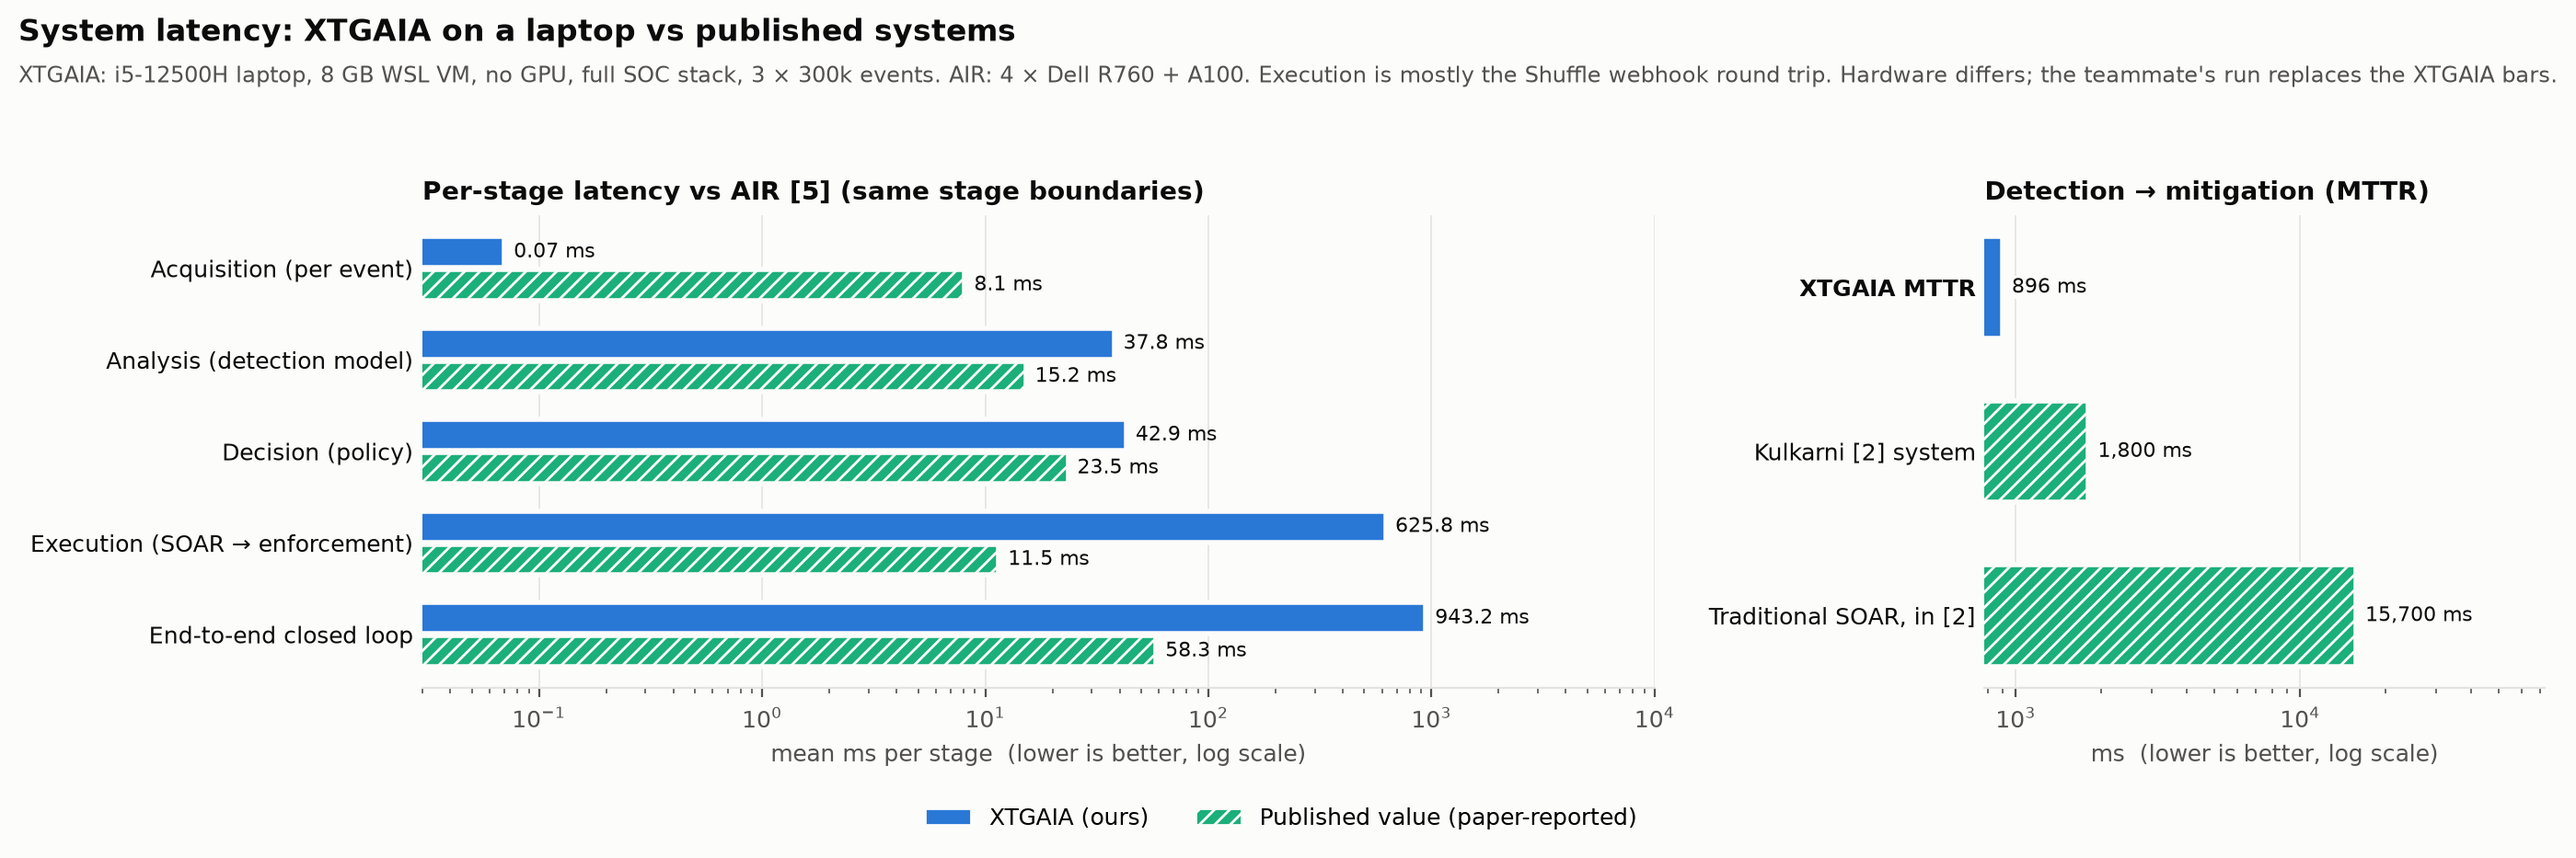
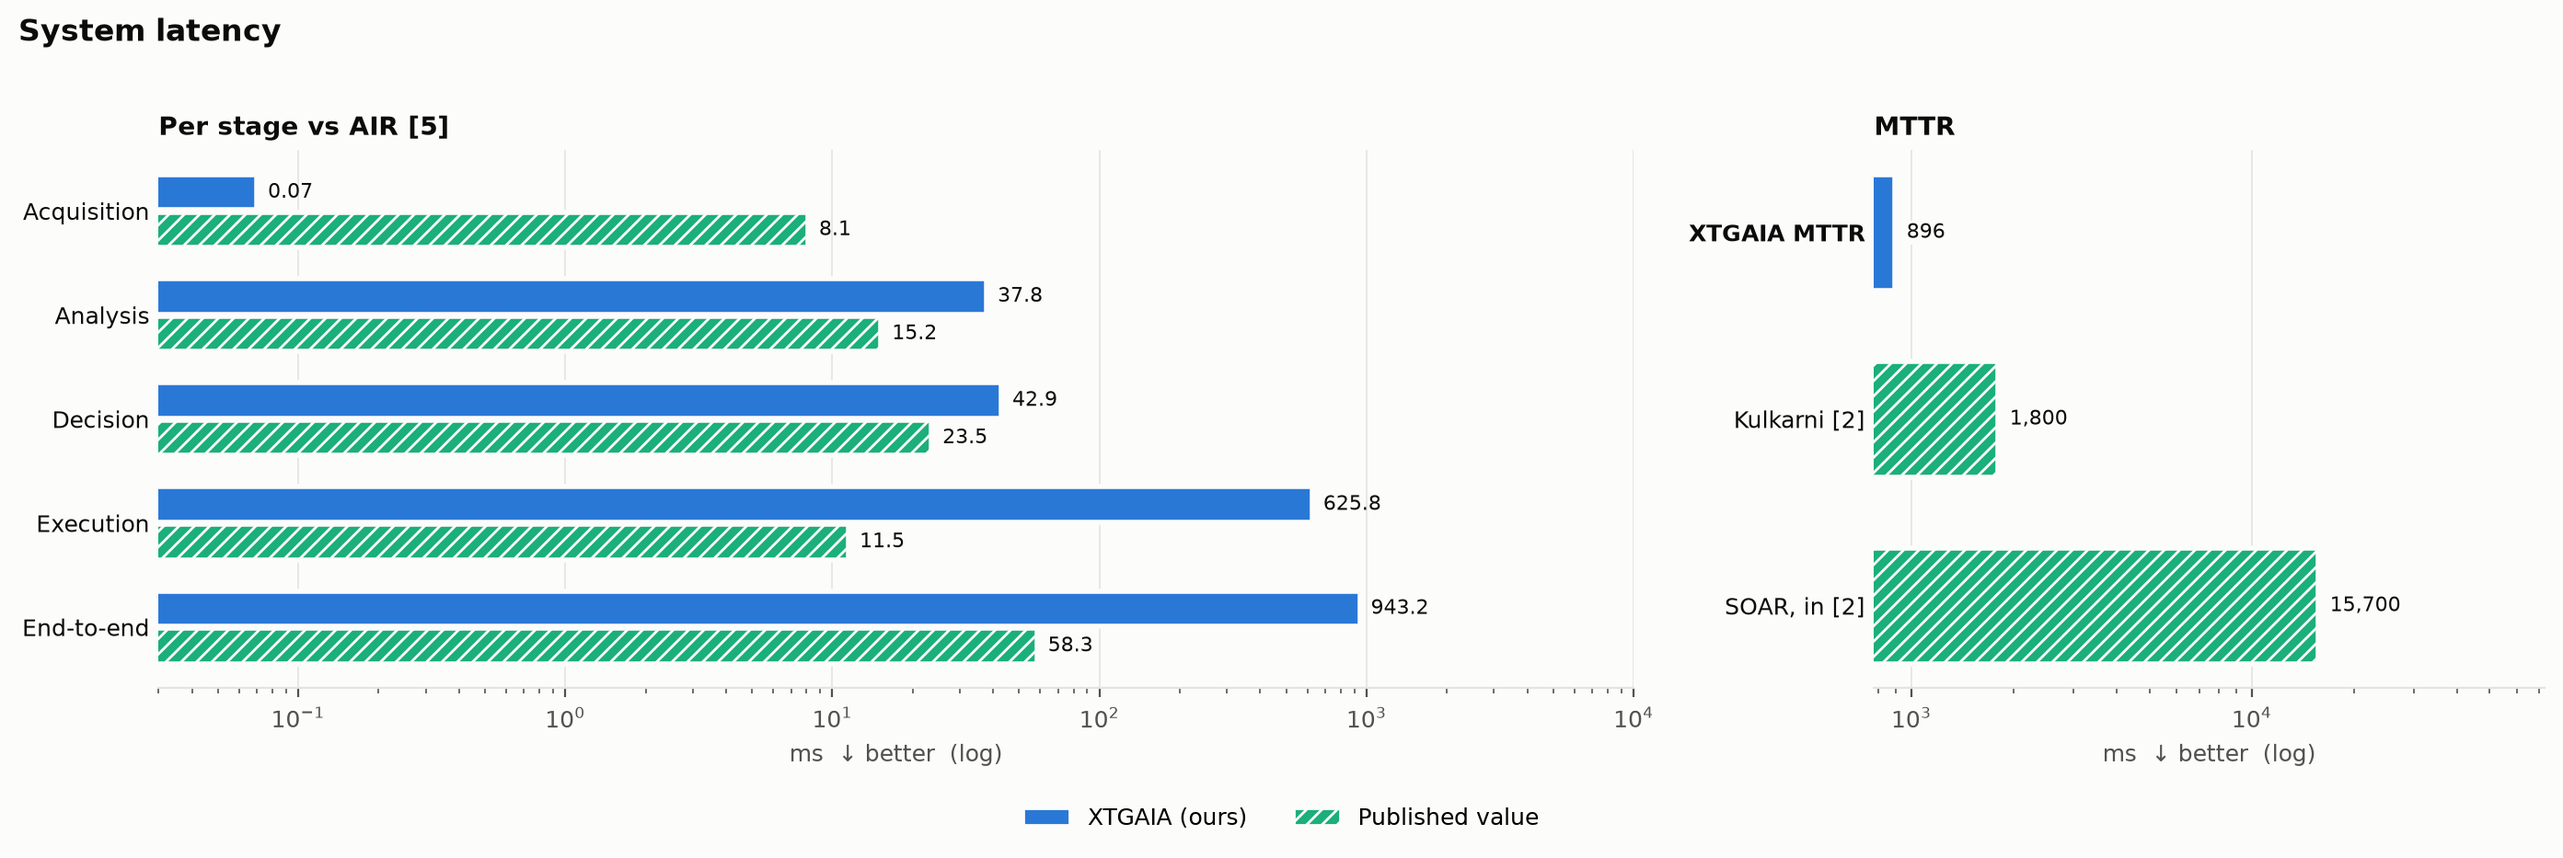
Comparison figures with less on-plot text; captions moved to docs/figures/README.md

diff --git a/scripts/make_comparison_figures.py b/scripts/make_comparison_figures.py
@@ -21,8 +21,8 @@ from matplotlib.patches import Patch  # noqa: E402
 OUT = os.path.join(os.path.dirname(os.path.dirname(os.path.abspath(__file__))), "docs", "figures")
 SURFACE, INK, INK2, GRID = "#fcfcfb", "#0b0b0b", "#52514e", "#e4e3df"
 GROUP = {"ours": ("#2a78d6", None, "XTGAIA (ours)"),
-         "inhouse": ("#eb6834", None, "Baseline, run in-house"),
-         "published": ("#1baf7a", "////", "Published value (paper-reported)")}
+         "inhouse": ("#eb6834", None, "Baseline (run in-house)"),
+         "published": ("#1baf7a", "////", "Published value")}
 
 plt.rcParams.update({"font.family": "DejaVu Sans", "font.size": 9, "axes.edgecolor": GRID, "axes.labelcolor": INK2,
                      "xtick.color": INK2, "ytick.color": INK, "axes.titlesize": 10, "axes.titleweight": "bold",
@@ -60,7 +60,8 @@ def hbar(ax, rows, title, xlabel, fmt="{:.3f}", log=False, xlim=None, better="hi
     else:
         ax.set_xlim(lo, hi * 4)
     ax.set_title(title, loc="left")
-    ax.set_xlabel(f"{xlabel}  ({'higher' if better == 'higher' else 'lower'} is better{', log scale' if log else ''})")
+    arrow = "↑ better" if better == "higher" else "↓ better"
+    ax.set_xlabel(f"{xlabel + '  ' if xlabel else ''}{arrow}{'  (log)' if log else ''}")
     ax.grid(axis="x", color=GRID, linewidth=0.6)
     ax.set_axisbelow(True)
     for s in ("top", "right", "left"):
@@ -103,12 +104,10 @@ def detection_unsw():
     hbar(axes[0], f1_1, "F1 at FPR 1 %", "F1", xlim=(0.7, 1.0))
     hbar(axes[1], f1_01, "F1 at FPR 0.1 %", "F1", xlim=(0.0, 1.0))
     hbar(axes[2], auc, "ROC-AUC", "ROC-AUC", fmt="{:.4f}", xlim=(0.85, 1.0))
-    fig.suptitle("Threat detection: NF-UNSW-NB15-v2, chronological 70/10/20 (CCSTGN [11] protocol)",
+    fig.suptitle("Detection: NF-UNSW-NB15-v2 (CCSTGN protocol)",
                  x=0.01, ha="left", fontsize=12, fontweight="bold", color=INK)
-    fig.text(0.01, 0.925, "Thresholds chosen on validation, as in [11]. XTGAIA: tuned final, 1 seed; [11]: mean of 5 runs. "
-             "† quoted in [11] from the 3D-IDS paper.", fontsize=8.5, color=INK2)
     legend(fig, y=-0.04)
-    fig.tight_layout(rect=(0, 0.02, 1, 0.91))
+    fig.tight_layout(rect=(0, 0.02, 1, 0.97))
     save(fig, "fig1a_detection_unsw.png")
 
 
@@ -123,87 +122,79 @@ def detection_cicids():
     fig, axes = plt.subplots(1, 3, figsize=(15, 3.6))
     hbar(axes[0], f1, "F1", "F1", xlim=(0.85, 1.0))
     hbar(axes[1], auc, "ROC-AUC", "ROC-AUC", fmt="{:.4f}", xlim=(0.98, 1.0))
-    hbar(axes[2], fpr, "False-positive rate", "FPR", fmt="{:.4f}", better="lower")
-    fig.suptitle("Threat detection: CICIDS2017 (corrected), held-out Friday (unseen day)",
+    hbar(axes[2], fpr, "FPR", "FPR", fmt="{:.4f}", better="lower")
+    fig.suptitle("Detection: CICIDS2017, held-out Friday",
                  x=0.01, ha="left", fontsize=12, fontweight="bold", color=INK)
-    fig.text(0.01, 0.885, "No paper publishes this protocol, so every comparator is run in-house on the same split. "
-             "Default thresholds (validation ω for the TGN).", fontsize=8.5, color=INK2)
     legend(fig, groups=("ours", "inhouse"), y=-0.08)
-    fig.tight_layout(rect=(0, 0.02, 1, 0.87))
+    fig.tight_layout(rect=(0, 0.02, 1, 0.96))
     save(fig, "fig1b_detection_cicids_heldout.png")
 
 
 # ------------------------------------------------------------------------------------------------ 2. latency
 def latency():
     # docs/handoff_latency_and_demo.md (laptop baseline, full SOC stack) vs AIR [5] / Kulkarni [2] reported
-    stages = [("Acquisition (per event)", 0.07, 8.1), ("Analysis (detection model)", 37.8, 15.2),
-              ("Decision (policy)", 42.9, 23.5), ("Execution (SOAR → enforcement)", 625.8, 11.5),
-              ("End-to-end closed loop", 943.2, 58.3)]
+    stages = [("Acquisition", 0.07, 8.1), ("Analysis", 37.8, 15.2),
+              ("Decision", 42.9, 23.5), ("Execution", 625.8, 11.5),
+              ("End-to-end", 943.2, 58.3)]
     fig, axes = plt.subplots(1, 2, figsize=(14, 4.4), gridspec_kw={"width_ratios": [2.2, 1]})
     ax = axes[0]
     n = len(stages)
     for i, (name, ours, air) in enumerate(stages[::-1]):
         ax.barh(i + 0.18, ours, height=0.34, color=GROUP["ours"][0], edgecolor=SURFACE, linewidth=2)
         ax.barh(i - 0.18, air, height=0.34, color=GROUP["published"][0], hatch="////", edgecolor=SURFACE, linewidth=2)
-        ax.text(ours * 1.1, i + 0.18, f"{ours:g} ms", va="center", fontsize=8, color=INK)
-        ax.text(air * 1.1, i - 0.18, f"{air:g} ms", va="center", fontsize=8, color=INK)
+        ax.text(ours * 1.1, i + 0.18, f"{ours:g}", va="center", fontsize=8, color=INK)
+        ax.text(air * 1.1, i - 0.18, f"{air:g}", va="center", fontsize=8, color=INK)
     ax.set_yticks(range(n), [s[0] for s in stages[::-1]])
     ax.set_xscale("log")
     ax.set_xlim(0.03, 10000)
-    ax.set_title("Per-stage latency vs AIR [5] (same stage boundaries)", loc="left")
-    ax.set_xlabel("mean ms per stage  (lower is better, log scale)")
+    ax.set_title("Per stage vs AIR [5]", loc="left")
+    ax.set_xlabel("ms  ↓ better  (log)")
     ax.grid(axis="x", color=GRID, linewidth=0.6)
     ax.set_axisbelow(True)
     for s in ("top", "right", "left"):
         ax.spines[s].set_visible(False)
     ax.tick_params(axis="y", length=0)
-    hbar(axes[1], [("XTGAIA MTTR", 896.5, "ours"), ("Kulkarni [2] system", 1800.0, "published"),
-                   ("Traditional SOAR, in [2]", 15700.0, "published")],
-         "Detection → mitigation (MTTR)", "ms", fmt="{:,.0f} ms", log=True, better="lower")
-    fig.suptitle("System latency: XTGAIA on a laptop vs published systems",
+    hbar(axes[1], [("XTGAIA MTTR", 896.5, "ours"), ("Kulkarni [2]", 1800.0, "published"),
+                   ("SOAR, in [2]", 15700.0, "published")],
+         "MTTR", "ms", fmt="{:,.0f}", log=True, better="lower")
+    fig.suptitle("System latency",
                  x=0.01, ha="left", fontsize=12, fontweight="bold", color=INK)
-    fig.text(0.01, 0.9, "XTGAIA: i5-12500H laptop, 8 GB WSL VM, no GPU, full SOC stack, 3 × 300k events. AIR: 4 × Dell R760 "
-             "+ A100. Execution is mostly the Shuffle webhook round trip. Hardware differs; the teammate's run replaces "
-             "the XTGAIA bars.", fontsize=8.5, color=INK2)
     legend(fig, groups=("ours", "published"), y=-0.05)
-    fig.tight_layout(rect=(0, 0.02, 1, 0.88))
+    fig.tight_layout(rect=(0, 0.02, 1, 0.96))
     save(fig, "fig2_latency.png")
 
 
 # ------------------------------------------------------------------------------------------------ 3. XAI
 def xai():
     # runs/final_metrics_deployed (XTGAIA, 1,200 detections) and data/processed/eval/explainer_baselines_1000.json
-    lat = [("XTGAIA Tier 1+2 (TGN)", 25.2, "ours"), ("TreeSHAP (XGBoost)", 1.3, "inhouse"),
+    lat = [("XTGAIA", 25.2, "ours"), ("TreeSHAP (XGBoost)", 1.3, "inhouse"),
            ("TreeSHAP (RF)", 2.4, "inhouse"), ("LIME (XGBoost)", 99.9, "inhouse"), ("LIME (RF)", 144.6, "inhouse"),
            ("LIME (1D-CNN)", 167.4, "inhouse"), ("KernelSHAP (1D-CNN)", 953.9, "inhouse")]
-    fid = [("XTGAIA Tier 1 (fidelity+)", 0.002, "ours"), ("TreeSHAP (XGBoost)", 0.790, "inhouse"),
+    fid = [("XTGAIA", 0.002, "ours"), ("TreeSHAP (XGBoost)", 0.790, "inhouse"),
            ("TreeSHAP (RF)", 0.266, "inhouse"), ("LIME (XGBoost)", 0.363, "inhouse"), ("LIME (RF)", 0.293, "inhouse"),
            ("LIME (1D-CNN)", 0.105, "inhouse"), ("KernelSHAP (1D-CNN)", 0.461, "inhouse")]
-    stab = [("XTGAIA (edge identity)", 0.984, "ours"), ("TreeSHAP (XGBoost)", 0.980, "inhouse"),
+    stab = [("XTGAIA", 0.984, "ours"), ("TreeSHAP (XGBoost)", 0.980, "inhouse"),
             ("TreeSHAP (RF)", 0.983, "inhouse"), ("LIME (XGBoost)", 0.703, "inhouse"), ("LIME (RF)", 0.804, "inhouse"),
             ("LIME (1D-CNN)", 0.848, "inhouse"), ("KernelSHAP (1D-CNN)", 0.731, "inhouse")]
     fig, axes = plt.subplots(1, 3, figsize=(15, 4.2))
-    hbar(axes[0], lat, "Explanation latency (mean)", "ms per explanation", fmt="{:g} ms", log=True, better="lower")
+    hbar(axes[0], lat, "Latency", "ms", fmt="{:g}", log=True, better="lower")
     axes[0].axvspan(200, axes[0].get_xlim()[1], color="#ecebe7", zorder=0, linewidth=0)
-    axes[0].text(200 * 1.08, 6.55, "beyond the 200 ms bound", fontsize=7.5, color=INK2)
-    hbar(axes[1], fid, "Fidelity (drop when top-k removed)", "Δp(attack)", xlim=(0, 1.0))
-    hbar(axes[2], stab, "Stability across similar instances", "similarity", xlim=(0.5, 1.0))
-    fig.suptitle("Explainability: XTGAIA's explainers vs post-hoc explainers",
+    axes[0].text(200 * 1.08, 6.55, "> 200 ms", fontsize=7.5, color=INK2)
+    hbar(axes[1], fid, "Fidelity", "Δp", xlim=(0, 1.0))
+    hbar(axes[2], stab, "Stability", "", xlim=(0.5, 1.0))
+    fig.suptitle("Explainability",
                  x=0.01, ha="left", fontsize=12, fontweight="bold", color=INK)
-    fig.text(0.01, 0.885, "No comparator paper publishes explanation latency, fidelity or stability, so all are measured "
-             "here (1,000 instances each; XTGAIA on 1,200 detections). Fidelity: subgraph fidelity+ (XTGAIA) vs top-5 "
-             "feature deletion. Stability: top-5 edge-set Jaccard (XTGAIA) vs [6]'s cosine.", fontsize=8.5, color=INK2)
     legend(fig, groups=("ours", "inhouse"), y=-0.06)
-    fig.tight_layout(rect=(0, 0.02, 1, 0.87))
+    fig.tight_layout(rect=(0, 0.02, 1, 0.96))
     save(fig, "fig3_xai.png")
 
 
 # ------------------------------------------------------------------------------------------------ 4. response
 def response():
     # docs/evaluation_results.md, CALDERA-driven zone environment (src/evaluation/response_eval.py)
-    pol = ["XTGAIA zone DDQN", "Static SOAR playbook", "Graded SOAR rules", "No response"]
+    pol = ["XTGAIA", "Static playbook", "Graded rules", "No response"]
     grp = ["ours", "inhouse", "inhouse", "inhouse"]
-    metrics = [("Mean return (Eq. 10)", [12.99, 7.94, 9.81, -30.86], "higher", "{:.2f}"),
+    metrics = [("Mean return", [12.99, 7.94, 9.81, -30.86], "higher", "{:.2f}"),
                ("Disruption", [0.050, 1.388, 0.729, 0.000], "lower", "{:.3f}"),
                ("Response cost", [0.41, 0.87, 0.57, 0.00], "lower", "{:.2f}"),
                ("Containment rate", [1.000, 1.000, 1.000, 0.354], "higher", "{:.3f}")]
@@ -214,13 +205,10 @@ def response():
         if min(vals) < 0:
             ax.set_xlim(min(vals) * 1.55, max(vals) * 1.6)
             ax.axvline(0, color=INK2, linewidth=0.8)
-    fig.suptitle("Response policy: zone Double DQN vs SOAR playbooks (MITRE CALDERA adversary profiles)",
+    fig.suptitle("Response policy (CALDERA adversaries)",
                  x=0.01, ha="left", fontsize=12, fontweight="bold", color=INK)
-    fig.text(0.01, 0.86, "The playbooks are implemented in-house in the same environment; [2] and AIR [5] report "
-             "response quality only on private deployments (context only). The no-response policy has zero disruption "
-             "and cost but contains only 35 % of attacks.", fontsize=8.5, color=INK2)
     legend(fig, groups=("ours", "inhouse"), y=-0.1)
-    fig.tight_layout(rect=(0, 0.02, 1, 0.84))
+    fig.tight_layout(rect=(0, 0.02, 1, 0.95))
     save(fig, "fig4_response.png")
 
 
@@ -242,12 +230,12 @@ def scorecard():
             left += v
         ax.text(left + 0.3, i, f"{w[j]} / {t[j]} / {l[j]}", va="center", fontsize=8.5, color=INK2)
     ax.set_yticks(range(len(topics)), topics[::-1])
-    ax.set_xlabel("number of like-for-like comparisons")
+    ax.set_xlabel("comparisons")
     ax.set_xlim(0, 27)
     for s in ("top", "right", "left"):
         ax.spines[s].set_visible(False)
     ax.tick_params(axis="y", length=0)
-    ax.set_title("Comparison scorecard: XTGAIA wins / ties / losses per topic", loc="left")
+    ax.set_title("Wins / ties / losses per topic", loc="left")
     fig.legend(handles=[Patch(facecolor=GROUP["ours"][0], label="XTGAIA better"),
                         Patch(facecolor="#b8b7b1", label="tie"),
                         Patch(facecolor=GROUP["inhouse"][0], hatch="\\\\\\\\", edgecolor=SURFACE,

diff --git a/docs/figures/README.md b/docs/figures/README.md
@@ -1,0 +1,24 @@
+# Comparison figures
+
+Generated by `python scripts/make_comparison_figures.py` from the committed results. Colours: blue = XTGAIA,
+orange = baseline run in-house on the same data, hatched aqua = value published in the comparator paper.
+Suggested captions (the details removed from the plots):
+
+- **fig0_scorecard**: like-for-like comparisons per topic (`docs/comparison_scorecard.md`). Latency is
+  measured on the development laptop; the teammate's hardware run replaces it.
+- **fig1a_detection_unsw**: NF-UNSW-NB15-v2, chronological 70/10/20 (CCSTGN [11] protocol); thresholds chosen
+  on validation. XTGAIA = tuned final, 1 seed; [11] = mean of 5 runs; † quoted in [11] from the 3D-IDS paper.
+- **fig1b_detection_cicids_heldout**: CICIDS2017 (corrected), train Mon–Thu, test Friday. No paper publishes
+  this protocol, so every comparator is run in-house. Default thresholds (validation ω for the TGN).
+  "Deployed" is the live pipeline model; "tuned" is the B11 result.
+- **fig2_latency**: XTGAIA laptop baseline (i5-12500H, 8 GB WSL VM, no GPU, full SOC stack, 3 × 300k events)
+  against AIR [5] (4 × Dell R760 + A100) at the same stage boundaries, and MTTR against Kulkarni [2].
+  Execution is mostly the Shuffle webhook round trip.
+- **fig3_xai**: none of the comparator papers publishes explanation latency, fidelity or stability, so all
+  are measured here (1,000 instances each; XTGAIA on 1,200 detections). Fidelity: subgraph fidelity+ (XTGAIA)
+  vs top-5 feature deletion. Stability: top-5 edge-set Jaccard between consecutive detections of the same
+  host and class (XTGAIA) vs [6]'s cosine between nearest same-class instances. Shaded area: beyond the
+  200 ms real-time bound.
+- **fig4_response**: MITRE CALDERA-driven zone environment, paper reward Eq. 10. Playbooks implemented
+  in-house; [2] and AIR [5] report response quality only for private deployments. No response has zero
+  disruption and cost but contains only 35 % of attacks.
